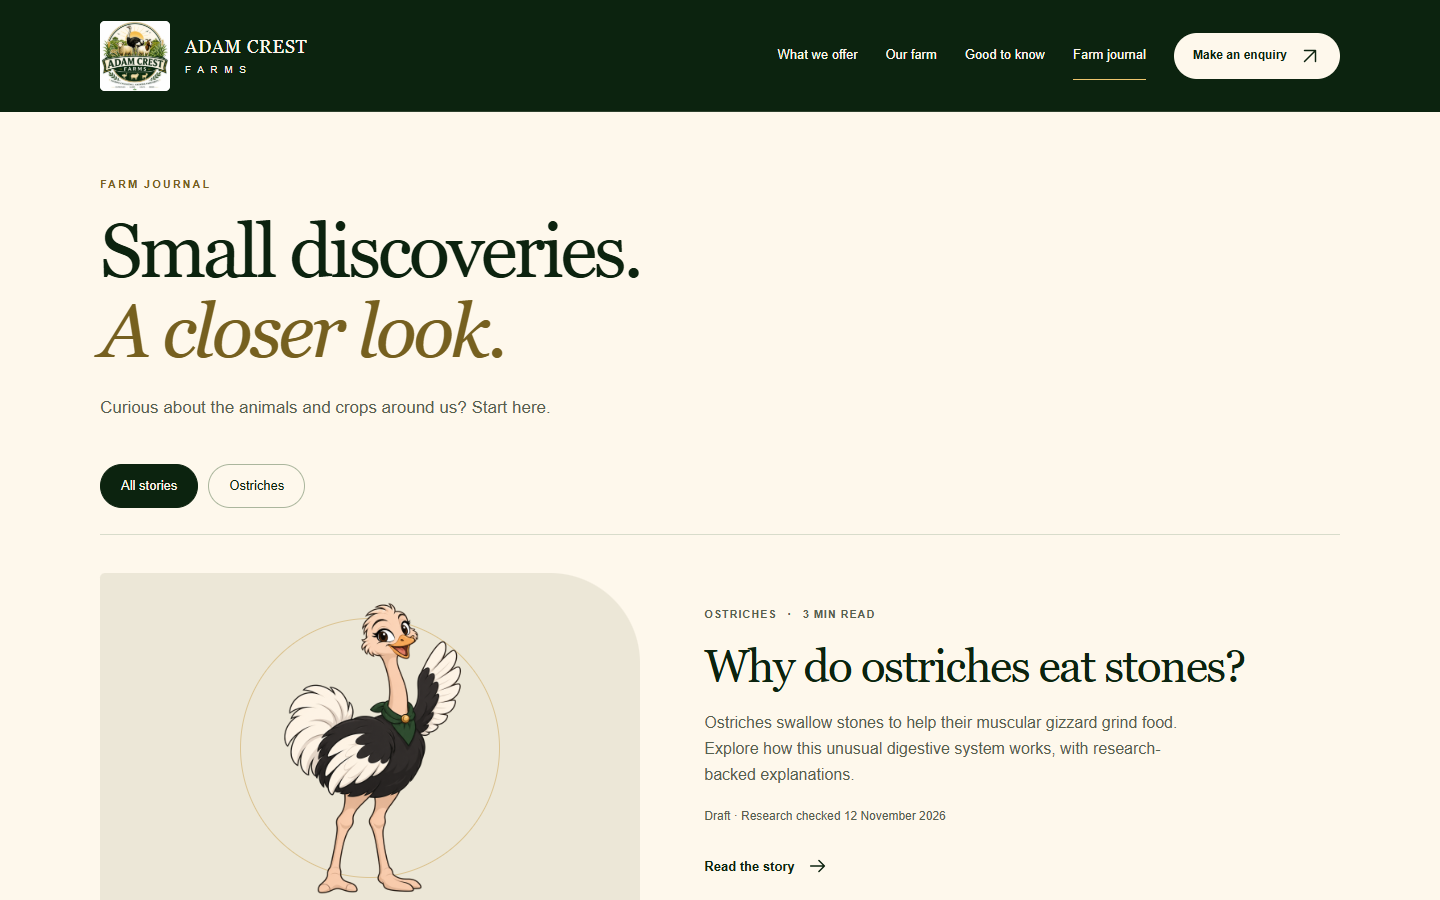
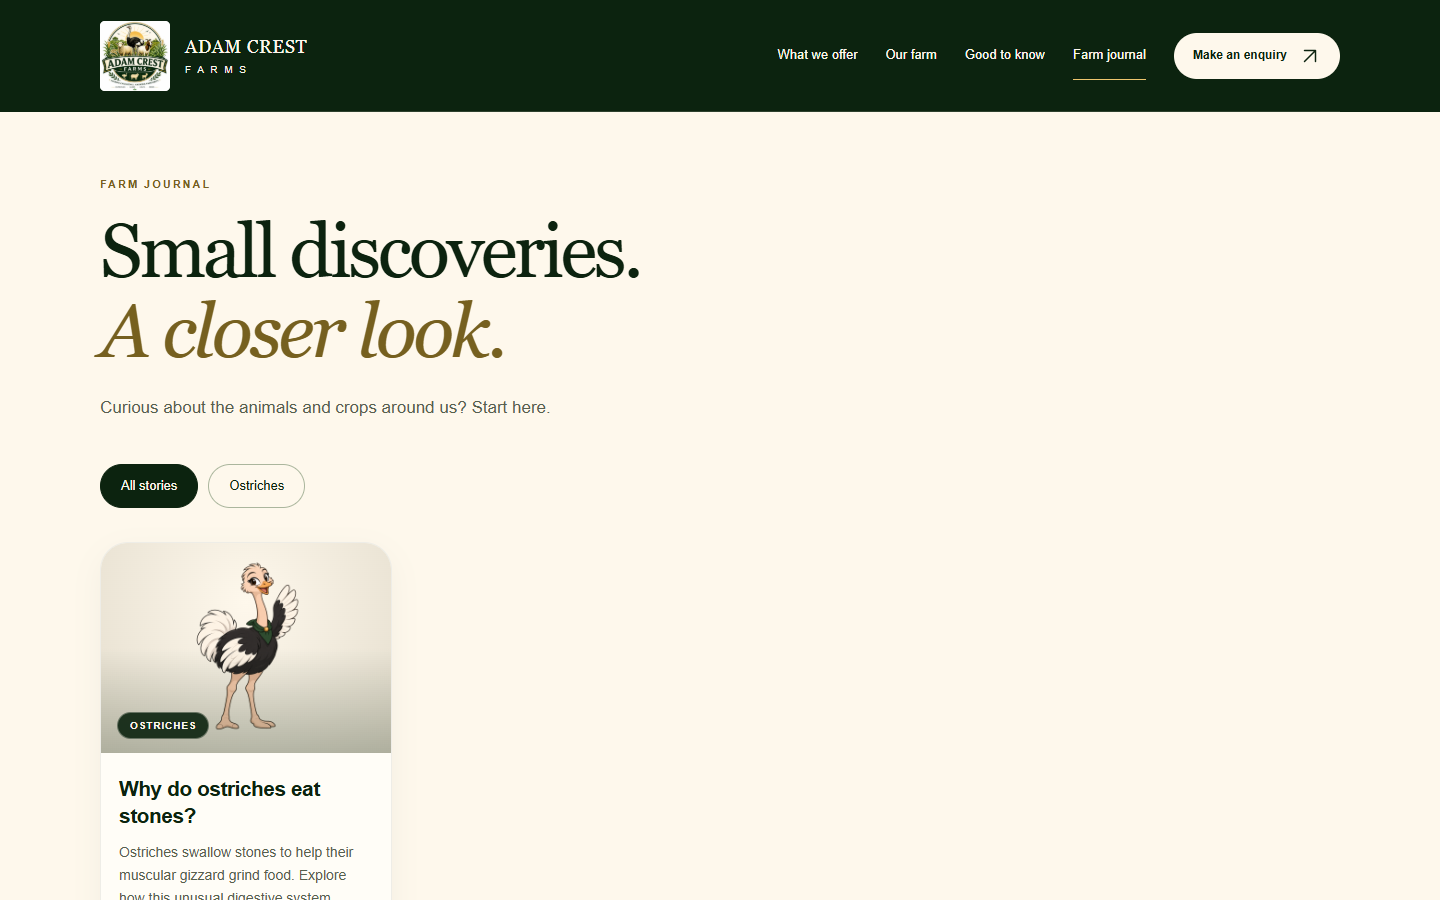
Match journal previews to rounded card reference

diff --git a/public/journal.css b/public/journal.css
@@ -9,23 +9,33 @@
 .topic-links>a:not(.button) { min-height:44px; padding:10px 20px; border:1px solid #ABB69D; border-radius:30px; font-size:13px; }
 .topic-links a[aria-current="page"] { color:var(--cream); background:var(--forest); border-color:var(--forest); }
 .topic-links a:hover { background:var(--soft); color:var(--forest); }
-.post-list { border-top:1px solid var(--line); }
-.post-card { display:grid; grid-template-columns:minmax(0,.85fr) minmax(0,1fr); gap:64px; padding-block:38px; border-bottom:1px solid var(--line); align-items:center; }
-.post-art { position:relative; display:flex; justify-content:center; align-items:center; height:350px; background:#ECE7D7; border-radius:5px 90px 5px 5px; overflow:hidden; }
-.post-art img { position:relative; height:310px; width:auto; max-width:90%; object-fit:contain; z-index:1; transition:transform 220ms var(--ease); }
-.post-art:hover img { transform:translateY(-4px); }
-.post-art-ring { position:absolute; width:260px; height:260px; border:1px solid #C3922C66; border-radius:50%; }
+.post-list { display:grid; grid-template-columns:repeat(4,minmax(0,1fr)); gap:24px; align-items:stretch; padding-block:8px 32px; }
+.post-card { min-width:0; display:flex; flex-direction:column; border:1px solid #0c230f12; border-radius:28px; overflow:hidden; background:#FFFDF7; box-shadow:0 10px 30px #0c230f0c; }
+.post-art { position:relative; height:210px; flex-shrink:0; background:#E9E5D9; overflow:hidden; }
+.post-image-link { display:block; width:100%; height:100%; }
+.post-art img { display:block; height:100%; width:100%; object-fit:cover; transition:transform 220ms var(--ease); }
+.post-art-illustration { background:radial-gradient(ellipse at 50% 28%,#FEF8EC,#E4DDCD); }
+.post-art-illustration img { object-fit:contain; padding:14px 14px 18px; }
+.post-art::after { content:''; position:absolute; inset:50% 0 0; pointer-events:none; background:linear-gradient(transparent,#0c230f40); }
+.post-art:hover img { transform:scale(1.025); }
+.post-category { position:absolute; left:16px; bottom:14px; z-index:1; padding:5px 12px; border:1px solid #fef8ec55; border-radius:30px; color:var(--cream); background:#0C230FE8; font-size:10px; line-height:1.5; font-weight:700; letter-spacing:.09em; text-transform:uppercase; pointer-events:none; }
 .post-kicker { font-size:11px; font-weight:700; letter-spacing:.08em; text-transform:uppercase; color:#56604E; }
 .post-kicker span { padding-inline:7px; }
-.post-card h2 { font-size:clamp(32px,3.5vw,46px); margin:18px 0; letter-spacing:-.035em; line-height:1.1; }
+.post-card-copy { padding:22px 18px 18px; display:flex; flex-direction:column; flex:1; }
+.post-card h2 { font-family:Arial,Helvetica,sans-serif; font-size:21px; font-weight:700; margin:0 0 12px; letter-spacing:-.025em; line-height:1.3; }
 .post-card h2 a:hover { text-decoration:underline; text-decoration-thickness:1px; text-underline-offset:5px; }
-.post-card-copy>p:not(.post-kicker):not(.post-date) { color:var(--muted); font-size:16px; max-width:480px; }
+.post-excerpt { color:var(--muted); font-size:14px; line-height:1.65; margin-bottom:14px; }
 .post-date { font-size:12px; color:var(--muted); margin-top:18px; }
-.post-card .text-link { margin-top:16px; font-weight:600; }
+.post-card .post-date { font-size:11px; margin:0 0 20px; }
+.post-card-details { display:flex; flex-wrap:wrap; gap:8px; margin-top:auto; margin-bottom:16px; }
+.post-card-details span { flex:1; min-height:36px; display:flex; align-items:center; justify-content:center; border:1px solid #0c230f15; background:#fff; border-radius:24px; padding:7px 10px; color:var(--muted); font-size:11px; line-height:1.4; }
+.post-read-link { width:100%; min-height:50px; gap:14px; font-size:14px; }
+.post-read-link:focus-visible { outline-offset:-5px; outline-color:var(--highlight); }
+.post-read-link .icon { width:18px; height:18px; }
 .journal-note { display:flex; align-items:center; justify-content:space-between; gap:24px; padding-top:30px; }
 .journal-note>p { font-family:Georgia,serif; font-size:24px; }
 .journal-note a { font-size:13px; }
-.empty-journal { padding-block:44px; }
+.empty-journal { padding-block:44px; grid-column:1/-1; }
 .empty-journal a { text-decoration:underline; }
 .breadcrumbs { display:flex; flex-wrap:wrap; align-items:center; gap:0 12px; width:auto; padding:0; margin:0 0 32px; font-size:12px; color:var(--muted); }
 .breadcrumbs>a:not(.button) { display:inline-flex; align-items:center; min-height:44px; padding:0; border:0; }
@@ -64,13 +74,15 @@
 .article-enquiry p:not(.eyebrow) { margin:15px 0 22px; font-size:15px; color:var(--muted); }
 .related-posts { margin-top:60px; }
 .related-posts>h2 { font-size:38px; }
+.related-posts .post-list { margin-top:26px; }
 .journal-return { margin-top:40px; }
 .policy-copy { max-width:700px; }
 #navigation a[aria-current="page"] { border-bottom-color:var(--highlight); }
 @media (max-width:1100px) and (min-width:761px) { .site-header .brand>span { display:none; } #navigation { gap:20px; } }
+@media (max-width:1199px) { .post-list { grid-template-columns:repeat(2,minmax(0,1fr)); } }
+@media (max-width:639px) { .post-list { grid-template-columns:minmax(0,1fr); gap:24px; }.post-art { height:220px; }.post-card-copy { padding:22px; } }
 @media (max-width:760px) {
   .journal { padding-block:42px 60px; }.journal-heading { margin-bottom:30px; }.journal-heading h1 { font-size:44px; }.journal-heading>p:last-child { font-size:15px; }
-  .post-card { grid-template-columns:1fr; gap:26px; padding-block:28px; }.post-art { height:270px; border-top-right-radius:70px; }.post-art img { height:240px; }.post-art-ring { width:210px; height:210px; }.post-card h2 { font-size:35px; margin:13px 0; }.post-card-copy>p:not(.post-kicker):not(.post-date) { font-size:15px; }.post-card .text-link { margin-top:10px; }
   .journal-note { align-items:flex-start; flex-direction:column; gap:8px; }.journal-note>p { font-size:22px; }
   .article { padding-block:18px 48px; }.article .breadcrumbs { margin-bottom:22px; }.article-heading { grid-template-columns:1fr; gap:24px; padding-bottom:32px; }.article-heading h1 { font-size:42px; margin:17px 0; }.article-deck { font-size:16px; }.article-byline { margin-top:22px; }
   .article-art { display:flex; align-items:center; gap:18px; background:var(--soft); padding:15px 24px; border-radius:4px 50px 4px 4px; }.article-art img { height:160px; width:107px; margin:0; }.article-art figcaption { text-align:left; margin:0; max-width:140px; }

diff --git a/docs/QA.md b/docs/QA.md
@@ -1,6 +1,17 @@
 # Local website verification
 
-Latest complete review: 13 November 2026 with Microsoft Edge 157.0.4341.46 via local Playwright tests. The website and the new journal remain local and unpublished. Earlier review notes are retained below.
+Latest journal review: 15 November 2026 with Microsoft Edge 157.0.4341.60 via local Playwright. The complete home-page and publication-lifecycle review remains dated 13 November 2026. The website and journal remain local and unpublished. Earlier review notes are retained below.
+
+## Journal preview cards, 15 November 2026
+
+- Replaced the horizontal editorial row with the owner's reference-inspired rounded card: image, overlaid category badge, bold title, excerpt, date, reading-time/draft pills and full-width Read article button. The shared component covers the journal, topic archives and related posts.
+- The local preview build succeeded. All four journal routes passed the existing browser review at 1440, 1024, 768, 390 and 320px: no overflow, broken images, console/page errors, external runtime requests or axe WCAG A/AA findings. Internal links, keyboard navigation, no-JavaScript reading, direct-file navigation, article schema and the enquiry journey passed.
+- Targeted layout checks confirmed four columns at 1200px and above, two at 640-1199px and one below 640px. Tested both sides of each breakpoint plus 320px and 390px. The actual preview contains only the existing researched draft.
+- Image, title and button each opened the correct full article. Keyboard Tab reached the button, its gold focus outline remained visible, and Enter opened the article. The initial keyboard check read the URL before navigation completed; waiting for navigation resolved that test timing issue without a site change.
+- A temporary browser-only four-card fixture with varied excerpt lengths confirmed equal card heights and aligned buttons. No fixture posts were written to content or output. Visually inspected desktop/mobile previews, the focused card and the fixture layout; the mascot retains its proportions.
+- The browser report now records the actual run date instead of a fixed historical date. Existing publication filtering and article content were unchanged, so the publication-lifecycle checks were not repeated for this presentation change.
+
+Evidence: [card layout and navigation report](review/journal-card-report.json), [journal browser report](review/blog-browser-report.json), [desktop journal](review/desktop-journal.png), [mobile journal](review/mobile-journal.png), [keyboard focus](review/journal-card-focus.png).
 
 ## Results
 

diff --git a/docs/BLOG_SPEC.md b/docs/BLOG_SPEC.md
@@ -6,7 +6,9 @@ Approved 12 November 2026: Codex manages research, writing and updates as Markdo
 
 Warm, curious, grounded. Extend the existing forest/cream/gold palette and Georgia/Arial typography. Shared header and footer retain the logo and three social links. Add one navigation link: Farm journal.
 
-The journal opens on cream with a 76px maximum Georgia headline, “Small discoveries. A closer look.”, and one short introduction. Categories are real links to generated topic pages; show only categories with visible articles. The first article is a wide editorial feature: soft cream illustration field on the left, title/excerpt on the right. Reuse the unchanged Option C greeting mascot, clearly described as an illustration. No fictitious farm photos, placeholder cards or empty topic archives.
+The journal opens on cream with a 76px maximum Georgia headline, “Small discoveries. A closer look.”, and one short introduction. Categories are real links to generated topic pages; show only categories with visible articles. Reuse the unchanged Option C greeting mascot, clearly described as an illustration. No fictitious farm photos, placeholder cards or empty topic archives.
+
+On 15 November 2026, the owner supplied a four-column product-card reference for the post preview layout. Translate that structure to articles: rounded 28px cream cards, top image (210px desktop / 220px mobile), category badge over the image, bold 21px Arial title, 14px excerpt, honest date, reading-time/draft pills and a full-width forest-green “Read article” button. Keep existing content; the reference's products, prices and purchasing controls are not blog content. Use four columns from 1200px, two from 640px and one below, with 24px gaps. Cards retain a consistent column width when only one article exists. Mascot artwork uses contain; future photographs can fill the image field without distortion. The shared card also serves topic archives and related articles.
 
 Article opening: breadcrumb, category, 64px maximum title, short description, honest byline and research date. A draft label is visible only in local previews. Below: 200px contents column and 680px reading column, 48px gap, body 18px/1.8. Headings 34px/1.15, 40px top spacing. An illustrative mascot panel sits beside the opening; no fabricated anatomy. Source links are embedded at relevant claims and listed at the end. A compact farm enquiry link ends the article. Related articles appear only when real eligible articles exist.
 

diff --git a/README.md b/README.md
@@ -2,7 +2,7 @@
 
 A self-contained Astro website with a Markdown farm journal, responsive farm introduction and product-enquiry composer. The supplied logo, Option C mascot and reviewed home-page design are retained.
 
-**Status, 13 November 2026:** local preview only. One researched journal draft is available for review. Nothing is published or deployed, no remote is configured, and WhatsApp remains hidden until an owner-confirmed number is supplied. The footer includes Instagram, TikTok and the confirmed Facebook page.
+**Status, 15 November 2026:** local preview only. One researched journal draft is available for review. Post previews now follow the owner's rounded image-card reference, with four columns on desktop, two on tablet and one on mobile. Nothing is published or deployed, no remote is configured, and WhatsApp remains hidden until an owner-confirmed number is supplied. The footer includes Instagram, TikTok and the confirmed Facebook page.
 
 ## Setup and preview
 
@@ -29,6 +29,8 @@ The built preview also opens directly: [Home](dist/index.html), [Farm journal](d
 Read [BLOG_WORKFLOW.md](docs/BLOG_WORKFLOW.md) for research, drafting and updates. Copy the [post template](docs/templates/blog-post.md) into src/content/blog/<slug>.md and replace every example value. The filename determines the stable URL /blog/<slug>/.
 
 The schema validates metadata, category, dates, sources and image information. Each post has its own HTML page, search title/description, canonical and sharing metadata, BlogPosting/breadcrumb JSON-LD, contents links and source list. Categories, related posts and the sitemap derive from eligible articles. Full article text and navigation work without JavaScript.
+
+The journal index at /blog/ previews all eligible posts as cards with an image, category, title, excerpt, date and reading time. Images, titles and the Read article buttons open the full post. Topic archives and related posts reuse the same card design. New eligible Markdown articles populate the grid automatically.
 
 Default local builds show labelled drafts and carry noindex/nofollow plus a blocking robots.txt and empty sitemap. Published posts need a genuine publishedAt date. Future-dated posts are omitted from production builds. There is no automatic publishing scheduler. Research dates and substantive update dates have separate meanings.
 
